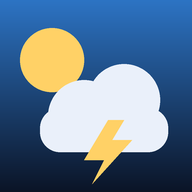
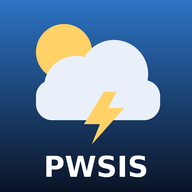
Marca PWSIS em todo o app
Nome instalado Tempo PWSIS, título, ícones, cabeçalho, rodapé,
notificações, compartilhamento e README.

Claude-Session: https://claude.ai/code/session_01VyGWEujsEVEDaFpnfEdzeP

Changed region(s): [[0.0938, 0.125, 0.9062, 0.9688], [0.8125, 0.4375, 0.8438, 0.5]]

diff --git a/index.html b/index.html
@@ -4,14 +4,17 @@
 <meta charset="utf-8">
 <meta name="viewport" content="width=device-width,initial-scale=1,viewport-fit=cover">
 <meta name="theme-color" content="#0b1426">
-<meta name="description" content="Previsão do tempo pelo GPS com alertas oficiais do INMET e da Defesa Civil.">
+<meta name="description" content="Tempo Agora PWSIS: previsão do tempo pelo GPS com alertas oficiais do INMET e da Defesa Civil.">
+<meta name="apple-mobile-web-app-title" content="Tempo PWSIS">
+<meta name="application-name" content="Tempo PWSIS">
+<meta name="author" content="PWSIS">
 <meta name="apple-mobile-web-app-capable" content="yes">
 <meta name="mobile-web-app-capable" content="yes">
 <meta name="apple-mobile-web-app-status-bar-style" content="black-translucent">
 <link rel="manifest" href="manifest.json">
 <link rel="icon" href="icon-192.png">
 <link rel="apple-touch-icon" href="icon-192.png">
-<title>Tempo Agora</title>
+<title>Tempo Agora PWSIS</title>
 <link rel="preconnect" href="https://fonts.googleapis.com">
 <link rel="preconnect" href="https://fonts.gstatic.com" crossorigin>
 <link rel="stylesheet" href="https://fonts.googleapis.com/css2?family=Barlow+Condensed:wght@500;600;700&family=Figtree:wght@400;500;600;700&family=IBM+Plex+Mono:wght@400;500&display=swap">
@@ -311,6 +314,10 @@ a{color:var(--accent)}
 
 .toast{position:fixed;left:50%;bottom:calc(var(--nav-h) + env(safe-area-inset-bottom,0px) + 14px);transform:translateX(-50%);z-index:800;background:var(--panel2);border:1px solid var(--line);padding:10px 16px;border-radius:12px;font-size:13.5px;box-shadow:0 10px 30px rgba(0,0,0,.4);max-width:calc(100% - 32px)}
 /* aviso de instalação */
+.brand{grid-column:1/-1;font:700 12px/1 var(--f-display);letter-spacing:.22em;text-transform:uppercase;color:var(--muted);margin-bottom:6px}
+.brand span{color:var(--accent);margin-left:4px}
+.brandfoot{font-size:13px;color:var(--fg)}
+.brandfoot b{color:var(--accent);letter-spacing:.06em}
 .install{margin-top:10px;display:grid;grid-template-columns:auto 1fr auto;gap:4px 12px;align-items:start;padding:12px 14px;border-radius:14px;background:color-mix(in srgb,var(--accent) 16%,var(--panel));border:1px solid color-mix(in srgb,var(--accent) 50%,transparent)}
 .install img{grid-row:1/3;width:42px;height:42px;border-radius:10px}
 .install b{font-size:15px}
@@ -351,7 +358,7 @@ footer{font-size:12px;color:var(--muted);display:grid;gap:4px;padding:18px 2px 0
   <div class="status load" id="status"><span class="dot"></span><span id="statusText">Iniciando…</span></div>
   <div class="install" id="installCard" hidden>
     <img src="icon-192.png" alt="">
-    <b>Instale o Tempo Agora no celular</b>
+    <b>Instale o Tempo Agora PWSIS no celular</b>
     <button class="close" id="installClose" aria-label="Fechar aviso">×</button>
     <div class="how" id="installHow"></div>
   </div>
@@ -359,6 +366,7 @@ footer{font-size:12px;color:var(--muted);display:grid;gap:4px;padding:18px 2px 0
   <!-- ================= AGORA ================= -->
   <section class="view" id="v-agora" data-view="agora">
     <div class="hero">
+      <div class="brand">Tempo Agora <span>PWSIS</span></div>
       <div class="place"><h1 id="placeName">Localizando…</h1><span class="chip" id="placeChip" hidden></span></div>
       <div class="subplace" id="placeSub">Permita o acesso à localização quando o celular pedir</div>
       <div class="temp num" id="temp"><span class="sk" style="display:inline-block;width:150px;height:110px"></span></div>
@@ -523,6 +531,7 @@ footer{font-size:12px;color:var(--muted);display:grid;gap:4px;padding:18px 2px 0
   </section>
 
   <footer>
+    <div class="brandfoot">Tempo Agora é um aplicativo <b>PWSIS</b>.</div>
     <div>Previsão: Open-Meteo (ECMWF, GFS, ICON, JMA e outros). Avisos oficiais: INMET e Defesa Civil (IDAP/MIDR). Radar: RainViewer. Mapa: Esri. Local: IBGE, Wikipédia.</div>
     <div>Os alertas marcados “Previsão” são calculados pelo app. Em emergência ligue 199 (Defesa Civil) ou 193 (Bombeiros).</div>
   </footer>
@@ -977,14 +986,14 @@ $("#optBar").addEventListener("change", e=>setPref("bar", e.target.checked));
 $("#optAlerts").addEventListener("change", e=>setPref("alerts", e.target.checked));
 $("#goNotify").addEventListener("click", ()=>$("#notifPanel").scrollIntoView({behavior:"smooth"}));
 $("#btnTestNotif").addEventListener("click", async ()=>{ const reg = await swReg(); if(!reg) return;
-  reg.showNotification("Teste · Tempo Agora", {body:"As notificações estão funcionando neste aparelho.", icon:"icon-192.png", badge:"badge-96.png", tag:"wx-test"}); });
+  reg.showNotification("Teste · Tempo Agora PWSIS", {body:"As notificações da PWSIS estão funcionando neste aparelho.", icon:"icon-192.png", badge:"badge-96.png", tag:"wx-test"}); });
 window.addEventListener("beforeinstallprompt", e=>{ e.preventDefault(); installEvt = e; refreshNotifUI(); });
 window.addEventListener("appinstalled", ()=>{ installEvt = null; refreshNotifUI(); toast("App instalado. Procure o ícone Tempo na tela inicial."); });
 $("#btnInstall").addEventListener("click", async ()=>{ if(!installEvt) return; installEvt.prompt(); await installEvt.userChoice; installEvt = null; refreshNotifUI(); });
 
 /* =============== instalação guiada =============== */
 const UA = navigator.userAgent || "";
-const isStandalone = () => matchMedia("(display-mode: standalone)").matches || navigator.standalone === true;
+const isStandalone = () => { try{ return (window.matchMedia && matchMedia("(display-mode: standalone)").matches) || navigator.standalone === true; }catch(e){ return false; } };
 function browserKind(){
   if(/iPhone|iPad|iPod/i.test(UA)) return /CriOS|FxiOS|EdgiOS/i.test(UA) ? "ios-other" : "ios";
   if(/GitHub|FBAN|FBAV|Instagram|WhatsApp|Line\/|; wv\)|Telegram/i.test(UA)) return "inapp";
@@ -1018,7 +1027,7 @@ function renderInstall(){
 $("#installClose").addEventListener("click", ()=>{ try{ sessionStorage.setItem("wx_inst_x","1"); }catch(e){} $("#installCard").hidden = true; });
 window.addEventListener("beforeinstallprompt", ()=>setTimeout(renderInstall,0));
 window.addEventListener("appinstalled", ()=>{ $("#installCard").hidden = true; });
-renderInstall();
+try{ renderInstall(); }catch(e){}
 
 /* =============== compartilhar =============== */
 const appUrl = () => location.protocol.startsWith("http") ? location.origin + location.pathname.replace(/index\.html$/,"") : "https://eliabeanger.github.io/tempo_agora/";
@@ -1029,7 +1038,7 @@ async function shareOut(title, text, url){
   catch(e){ toast(url || text); }
 }
 function shareApp(){
-  shareOut("Tempo Agora", "Tempo Agora: previsão pelo GPS, alertas oficiais do INMET e da Defesa Civil, radar e dicas para o campo. Abra o link e toque em Instalar:", appUrl());
+  shareOut("Tempo Agora PWSIS", "Tempo Agora PWSIS: previsão pelo GPS, alertas oficiais do INMET e da Defesa Civil, radar e dicas para o campo. Abra o link e toque em Instalar:", appUrl());
 }
 $("#btnShareApp").addEventListener("click", shareApp);
 $("#btnShareApp2").addEventListener("click", shareApp);
@@ -1038,7 +1047,7 @@ $("#btnShareWx").addEventListener("click", ()=>{
   const c = state.data.current, d = state.data.daily;
   const amanha = d.time[1] ? `Amanhã: ${wmo(d.weather_code[1])[0].toLowerCase()}, ↑${r0(d.temperature_2m_max[1])}° ↓${r0(d.temperature_2m_min[1])}°, chuva ${r0(d.precipitation_probability_max[1])}%.` : "";
   const al = (state.official||[]).length ? `⚠ Alertas oficiais: ${state.official.map(a=>`${a.title} (${a.src}${a.sevTxt?", "+a.sevTxt:""})`).join("; ")}.` : "Sem alertas oficiais agora.";
-  const text = `🌦 Tempo em ${state.loc.name} agora: ${r0(c.temperature_2m)}°, ${wmo(c.weather_code)[0].toLowerCase()}. Sensação ${r0(c.apparent_temperature)}°. Hoje ↑${r0(d.temperature_2m_max[0])}° ↓${r0(d.temperature_2m_min[0])}°, chuva ${r0(d.precipitation_probability_max[0])}%, vento ${r0(c.wind_speed_10m)} km/h.\n${amanha}\n${al}\n\nVeja no app Tempo Agora:`;
+  const text = `🌦 Tempo em ${state.loc.name} agora: ${r0(c.temperature_2m)}°, ${wmo(c.weather_code)[0].toLowerCase()}. Sensação ${r0(c.apparent_temperature)}°. Hoje ↑${r0(d.temperature_2m_max[0])}° ↓${r0(d.temperature_2m_min[0])}°, chuva ${r0(d.precipitation_probability_max[0])}%, vento ${r0(c.wind_speed_10m)} km/h.\n${amanha}\n${al}\n\nVeja no app Tempo Agora PWSIS:`;
   shareOut(`Tempo em ${state.loc.name}`, text, appUrl());
 });
 
@@ -1050,7 +1059,7 @@ async function notifyNew(list){
   if(!prefs.alerts || !fresh.length || !hasNotif || Notification.permission!=="granted") return;
   const reg = await swReg();
   for(const a of fresh){
-    const opt = {body:`${a.src} · ${a.sevTxt||""}${a.end?" · até "+fmtDT(a.end):""}`, icon:"icon-192.png", badge:"badge-96.png", tag:a.id, requireInteraction:true, data:{url:"index.html#agora"}};
+    const opt = {body:`${a.src} · ${a.sevTxt||""}${a.end?" · até "+fmtDT(a.end):""} · Tempo Agora PWSIS`, icon:"icon-192.png", badge:"badge-96.png", tag:a.id, requireInteraction:true, data:{url:"index.html#agora"}};
     try{ reg ? reg.showNotification("⚠ "+a.title, opt) : new Notification("⚠ "+a.title, opt); }catch(e){}
   }
 }
@@ -1119,7 +1128,7 @@ function renderTimeline(i0){
 /* =============== gráficos =============== */
 $$(".tab").forEach(b=>b.addEventListener("click",()=>{ $$(".tab").forEach(x=>x.setAttribute("aria-selected",x===b)); state.chartKey=b.dataset.k; store.set("wx_tab",state.chartKey); renderChart(); }));
 const CV = n => getComputedStyle(document.documentElement).getPropertyValue(n).trim();
-if(typeof Chart!=="undefined"){ Chart.defaults.font.family = 'Figtree, system-ui, -apple-system, "Segoe UI", Roboto, sans-serif'; Chart.defaults.color = "#93a3c0"; }
+if(typeof Chart!=="undefined" && Chart.defaults && Chart.defaults.font){ Chart.defaults.font.family = 'Figtree, system-ui, -apple-system, "Segoe UI", Roboto, sans-serif'; Chart.defaults.color = "#93a3c0"; }
 function chartOpts(scales, titleCb){
   const grid=CV("--line"), muted=CV("--muted"), fg=CV("--fg");
   return {responsive:true,maintainAspectRatio:false,interaction:{mode:"index",intersect:false},

diff --git a/sw.js b/sw.js
@@ -1,8 +1,8 @@
-// Tempo Agora — service worker
+// Tempo Agora PWSIS — service worker
 // 1) Guarda a interface para abrir rápido e sem internet.
 // 2) Em segundo plano (Periodic Background Sync do Chrome/Android), atualiza a notificação
 //    do tempo na barra e verifica alertas oficiais do INMET para o último local salvo.
-const CACHE = "tempo-agora-v5";
+const CACHE = "tempo-agora-v6";
 const CFG = "tempo-agora-config";
 const SHELL = ["./", "./index.html", "./manifest.json", "./icon-192.png", "./icon-512.png", "./badge-96.png", "./icon-maskable-512.png"];
 
@@ -86,7 +86,7 @@ async function bgUpdate() {
         alertCount++;
         const id = "inmet-" + a.id; if (seen.has(id)) continue; seen.add(id);
         await self.registration.showNotification("⚠ " + (a.descricao || "Aviso meteorológico"), {
-          body: `INMET · ${a.severidade || ""} · ${name}`, icon: "icon-192.png", badge: "badge-96.png",
+          body: `INMET · ${a.severidade || ""} · ${name} · Tempo Agora PWSIS`, icon: "icon-192.png", badge: "badge-96.png",
           tag: id, requireInteraction: true, data: { url: "index.html#agora" }
         });
       }

diff --git a/README.md b/README.md
@@ -1,7 +1,9 @@
-# Tempo Agora
+# Tempo Agora PWSIS
 
-App de previsão do tempo pelo GPS do celular, com alertas oficiais do INMET e da Defesa Civil, radar, gráficos, fases da lua e dicas para o campo.
+Aplicativo de previsão do tempo da **PWSIS**: usa o GPS do celular e traz alertas oficiais do INMET e da Defesa Civil, radar de chuva, gráficos, previsão de 14 dias, fases da lua e dicas para o campo.
 
 **Instalar:** abra https://eliabeanger.github.io/tempo_agora/ no Chrome do celular e toque em **Instalar app**.
 
-Fontes: Open-Meteo, INMET, Defesa Civil (IDAP/MIDR), RainViewer, IBGE, Wikipédia.
+Fontes de dados: Open-Meteo, INMET, Defesa Civil (IDAP/MIDR), RainViewer, IBGE e Wikipédia.
+
+© PWSIS
